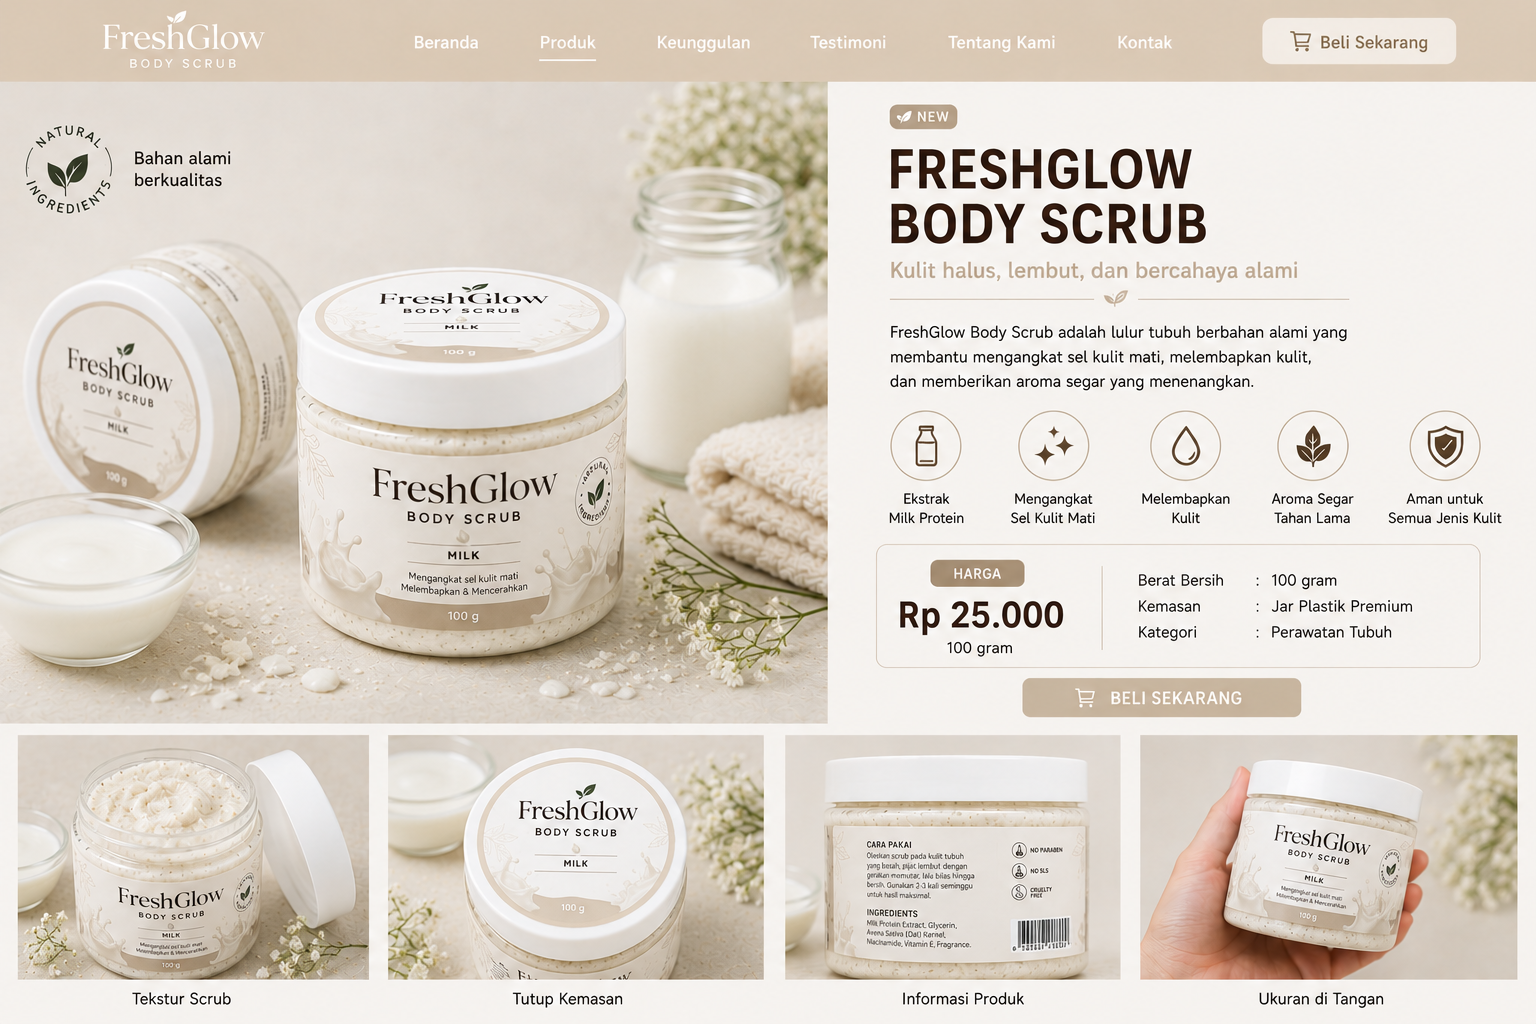
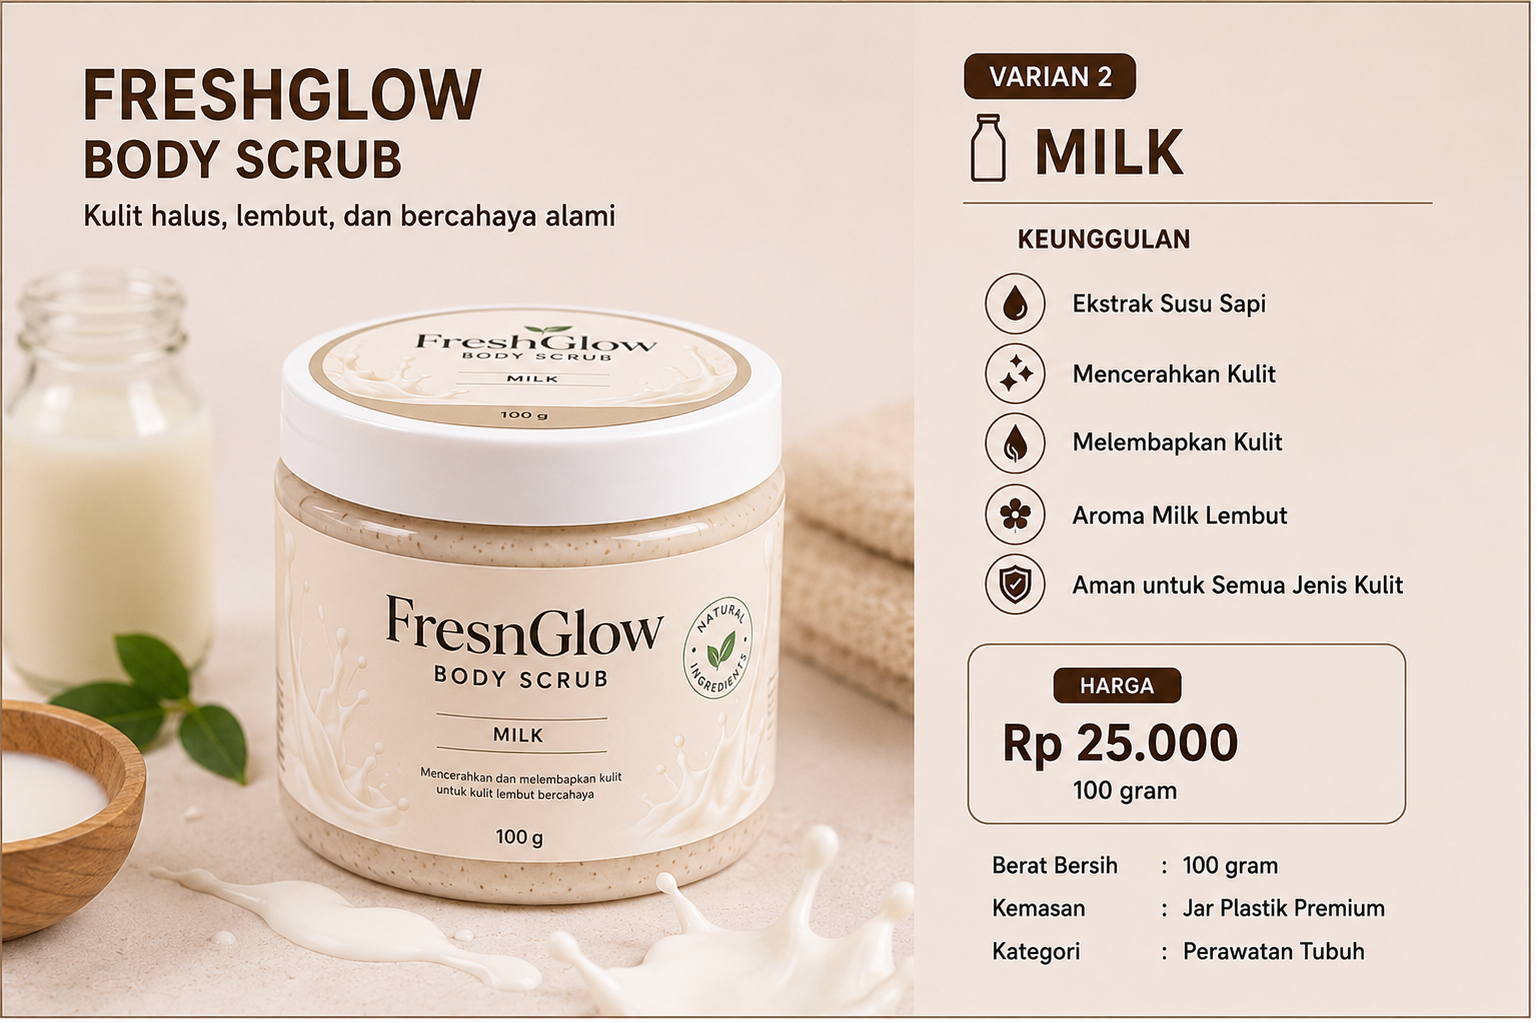
Update FreshGlow Showcase

diff --git a/index.html b/index.html
@@ -177,7 +177,7 @@ Lihat Produk
 
 <div class="col-lg-6">
 
-<img src="coklat.png">
+<img src="img/logo.png">
 
 </div>
 
@@ -201,7 +201,7 @@ Varian Produk
 
 <div class="card">
 
-<img src="img/coklat.png"
+<img src="img/cklt.png"
      class="card-img-top"
      onclick="showImage(this.src)"
      data-bs-toggle="modal"
@@ -230,7 +230,7 @@ Beli Sekarang
 
 <div class="card">
 
-<img src="img/green tea.png"
+<img src="img/gt.png"
      class="card-img-top"
      onclick="showImage(this.src)"
      data-bs-toggle="modal"
@@ -260,7 +260,7 @@ Beli Sekarang
 
 <div class="card">
 
-<img src="img/lavender.png"
+<img src="img/lvn.png"
      class="card-img-top"
      onclick="showImage(this.src)"
      data-bs-toggle="modal"
@@ -320,7 +320,7 @@ Beli Sekarang
 
 <div class="card">
 
-<img src="img/milk and rice.png"
+<img src="img/mr.png"
      class="card-img-top"
      onclick="showImage(this.src)"
      data-bs-toggle="modal"